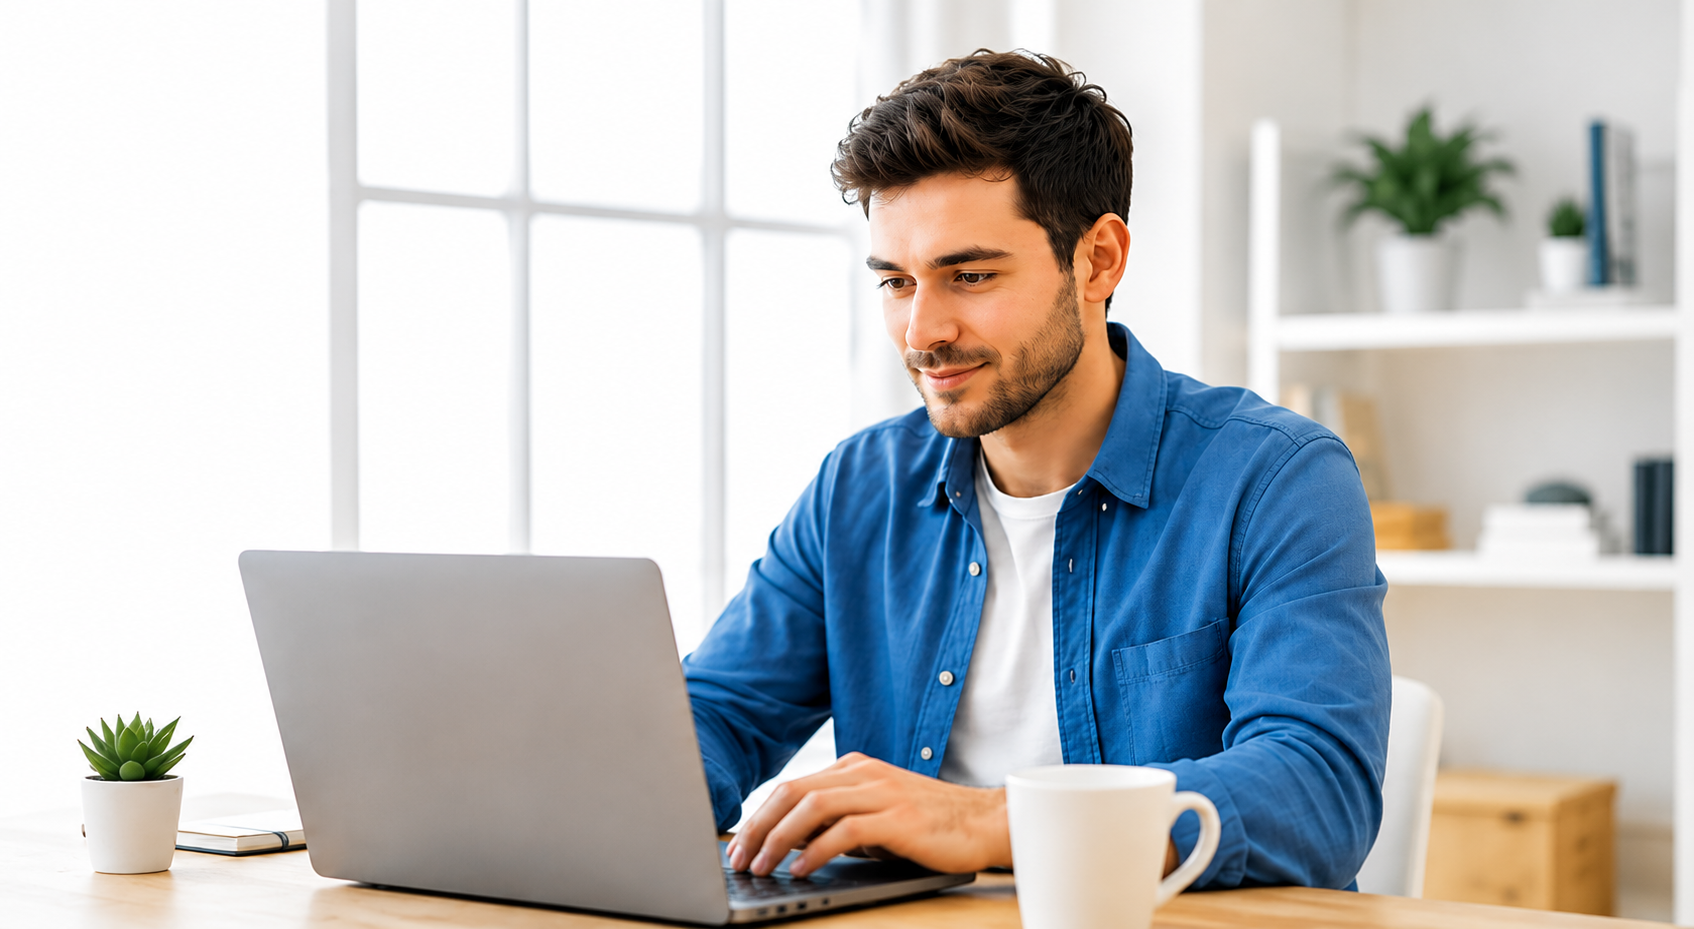
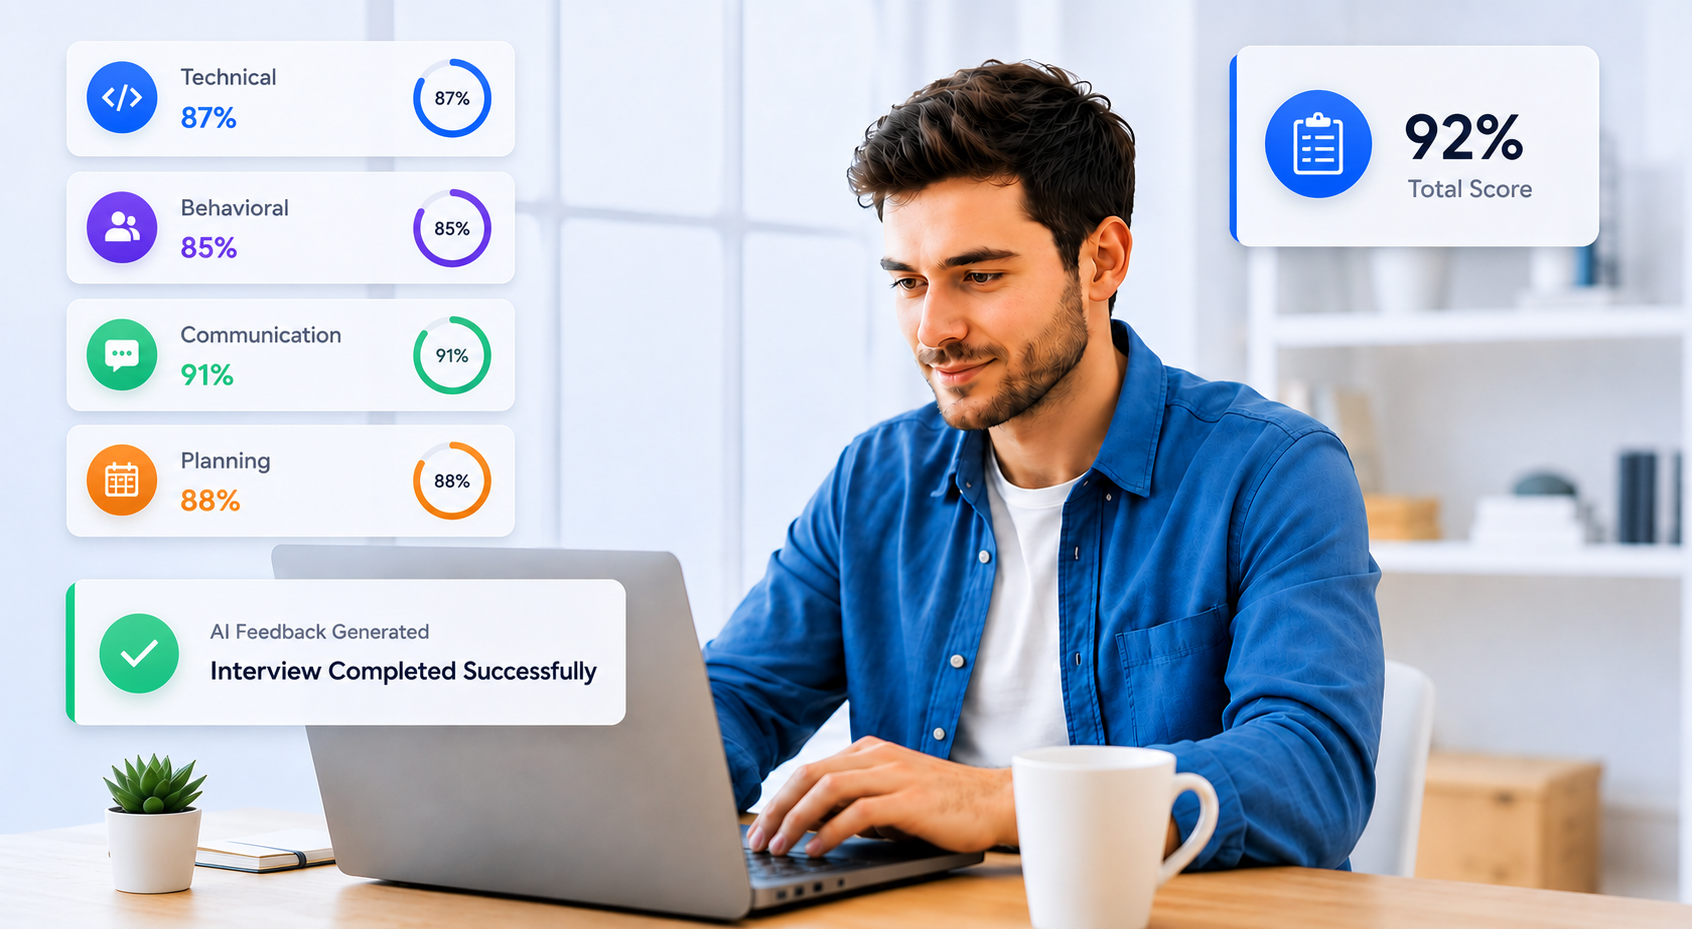
update(frontend): update hero image and add demo link

diff --git a/frontend/src/components/home/HeroSection.tsx b/frontend/src/components/home/HeroSection.tsx
@@ -95,7 +95,7 @@ const HeroSection = () => {
               Try Free Interview
             </button>
           </Link>
-          <Link to="https://www.google.com" target="_blank" style={{ textDecoration: "none" }}>
+          <Link to="https://youtu.be/HAwSciaIkLs" target="_blank" style={{ textDecoration: "none" }}>
             <button
               className="btn"
               style={{
@@ -138,7 +138,7 @@ const HeroSection = () => {
       <div
         className=" position-absolute end-0 d-none d-md-block "
         style={{
-          width: '50%',
+          width: '58%',
           height: '100%',
           backgroundImage: 'url("./hero3.png")',
           backgroundSize: 'cover',